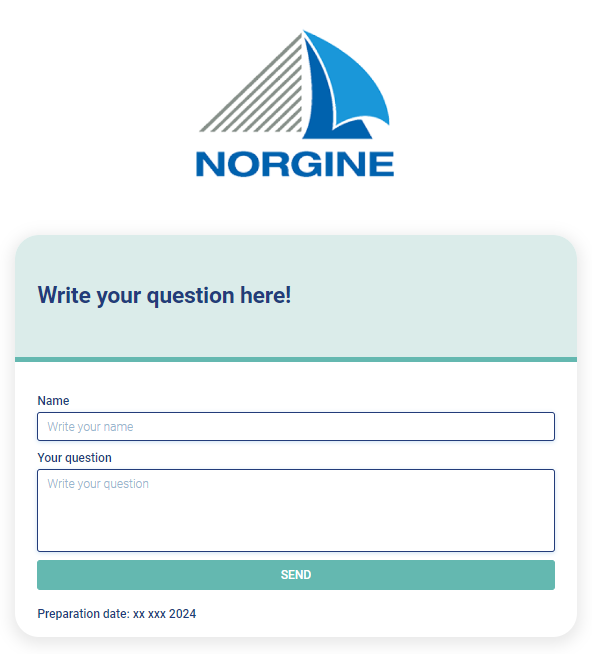
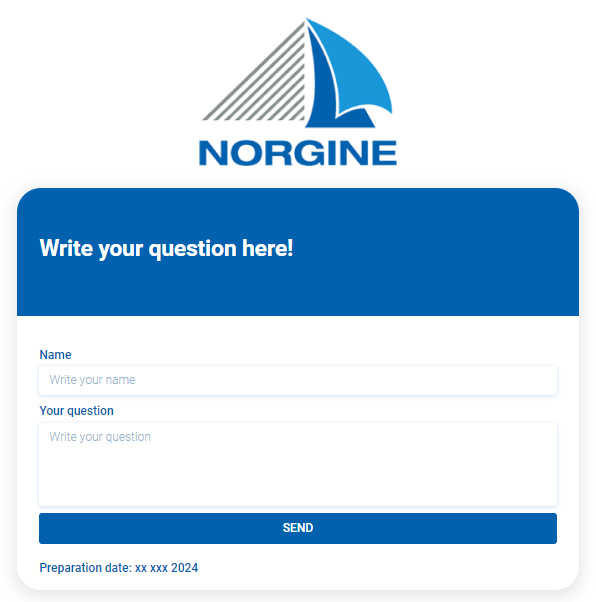
changes in chat popup for norgine account

diff --git a/src/Components/Firbase/Event.js b/src/Components/Firbase/Event.js
@@ -1447,6 +1447,171 @@ eventId={eventId}
           </div>
         )}
 
+
+        {formData?.templateId === 13 && (
+          <div className="container norgine">
+            <div className="question-block">
+              <div className="header-logo">
+                <div>
+                  <img
+                    src={`${
+                      formData?.logoImageUrl
+                        ? formData?.logoImageUrl
+                        : ""
+                    }`}
+                    alt="OneSource logo"
+                  />
+                </div>
+              </div>
+              <div className="question-block-form small-temp">
+                <div className="log-inner">
+                  <div className="head-sec"
+                    style={{
+                      background: formData?.headerBackgroundColor,
+                      borderBottomColor: formData?.buttonColor,
+                    }}
+                  >
+                    <h2
+                      className="top-title"
+                      style={{ color: formData?.textColor }}
+                      dangerouslySetInnerHTML={{
+                        __html: formData?.heading
+                          ? formData?.heading
+                          : "",
+                      }}
+                    ></h2>
+                  </div>
+                </div>
+
+                <form onSubmit={handleSubmit}>
+                  <input
+                    type="hidden"
+                    className="form-control"
+                    id="guest_id"
+                    name="guest_id"
+                    value="lji3sjpsdc21tux2st"
+                  />
+
+                  <div className="row">
+                    <div className="col-md-12">
+                      <label
+                        htmlFor="fname"
+                        className="form-label"
+                        style={{ color: formData?.headerBackgroundColor }}
+                        dangerouslySetInnerHTML={{
+                          __html: formData?.nameLabel
+                            ? formData?.nameLabel
+                            : "",
+                        }}
+                      />
+
+                      <input
+                        type="text"
+                        id="name"
+                        onChange={handleChange}
+                        className="form-control "
+                        placeholder={
+                          formData?.namePlaceholder
+                            ? formData?.namePlaceholder
+                            : ""
+                        }
+                        name="name"
+                        value={user?.name}
+                        style={{
+                          borderColor: formData?.textColor,
+                        }}
+                      />
+                      <input
+                        type="hidden"
+                        className="form-control"
+                        value="Question submitted successfully"
+                        name="succ_message"
+                      />
+                      <input
+                        type="hidden"
+                        className="form-control"
+                        value="Please enter message"
+                        name="err_message"
+                      />
+                      <input
+                        type="hidden"
+                        className="form-control"
+                        value="index.php?evnt=octa-academy-2023"
+                        name="page"
+                      />
+                    </div>
+                    <div className="col-md-12">
+                      <label
+                        htmlFor="fname"
+                        className="form-label"
+                        style={{ color: formData?.headerBackgroundColor }}
+                        dangerouslySetInnerHTML={{
+                          __html: formData?.questionLabel
+                            ? formData?.questionLabel
+                            : "",
+                        }}
+                      />
+
+                      <textarea
+                        name="question"
+                        id="question"
+                        onChange={handleChange}
+                        className="form-control"
+                        placeholder={
+                          formData?.questionPlaceholder
+                            ? formData?.questionPlaceholder
+                            : ""
+                        }
+                        cols="40"
+                        rows="4"
+                        value={user?.question}
+                        style={{
+                          borderColor: formData?.textColor,
+                        }}
+                      ></textarea>
+
+                      {error?.question ? (
+                        <span className="event-validation">
+                          {error?.question}
+                        </span>
+                      ) : (
+                        ""
+                      )}
+                    </div>
+
+                    <div className="col-md-12">
+                      <Button
+                        type="submit"
+                        className="btn btn-success"
+                        style={{
+                          background: formData?.buttonColor,
+                          borderColor: formData?.buttonColor,
+                        }}
+                        dangerouslySetInnerHTML={{
+                          __html: formData?.buttonText
+                            ? formData?.buttonText
+                            : "",
+                        }}
+                      ></Button>
+                    </div>
+                  </div>
+                </form>
+
+                <div className="copy-right-bottom-text">
+                  <p
+                    style={{ color: formData?.headerBackgroundColor }}
+                    dangerouslySetInnerHTML={{
+                      __html: formData?.footerText
+                        ? formData?.footerText
+                        : "",
+                    }}
+                  />
+                </div>
+              </div>
+            </div>
+          </div>
+        )}
+
         {formData?.templateId === 2 && (
           <div className="container">
             <div className="question-block">

diff --git a/src/Components/NewWebinar/WebinarFiles/WebinarDashboard/ChatLinkPage/ChatLinkPage.js b/src/Components/NewWebinar/WebinarFiles/WebinarDashboard/ChatLinkPage/ChatLinkPage.js
@@ -1247,7 +1247,8 @@ const ChatLinkPage = () => {
                                 <label
                                   htmlFor="fname"
                                   className="form-label"
-                                  style={{ color: formData?.textColor }}
+                                  // style={{ color: formData?.textColor }}
+                                  style={{color: formData?.templateId === 13 ? formData?.headerBackgroundColor : formData?.textColor }}
                                   dangerouslySetInnerHTML={{
                                     __html: formData?.nameLabel,
                                   }}
@@ -1287,7 +1288,8 @@ const ChatLinkPage = () => {
                                 <label
                                   htmlFor="fname"
                                   className="form-label"
-                                  style={{ color: formData?.textColor }}
+                                  // style={{ color: formData?.textColor }}
+                                  style={{color: formData?.templateId === 13 ? formData?.headerBackgroundColor : formData?.textColor }}
                                   dangerouslySetInnerHTML={{
                                     __html: formData?.questionLabel,
                                   }}
@@ -1356,7 +1358,8 @@ const ChatLinkPage = () => {
                               </div>
                               <div className="copy-right-bottom-text">
                                 <p
-                                  style={{ color: formData?.textColor }}
+                                  // style={{ color: formData?.textColor }}
+                                  style={{color: formData?.templateId === 13 ? formData?.headerBackgroundColor : formData?.textColor }}
                                   dangerouslySetInnerHTML={{
                                     __html: formData?.footerText,
                                   }}
@@ -1392,7 +1395,8 @@ const ChatLinkPage = () => {
                           (
                             <div className="copy-right-bottom-text">
                               <p
-                                style={{ color: formData?.textColor }}
+                                // style={{ color: formData?.textColor }}
+                                style={{color: formData?.templateId === 13 ? formData?.headerBackgroundColor : formData?.textColor }}
                                 dangerouslySetInnerHTML={{
                                   __html: formData?.footerText,
                                 }}
